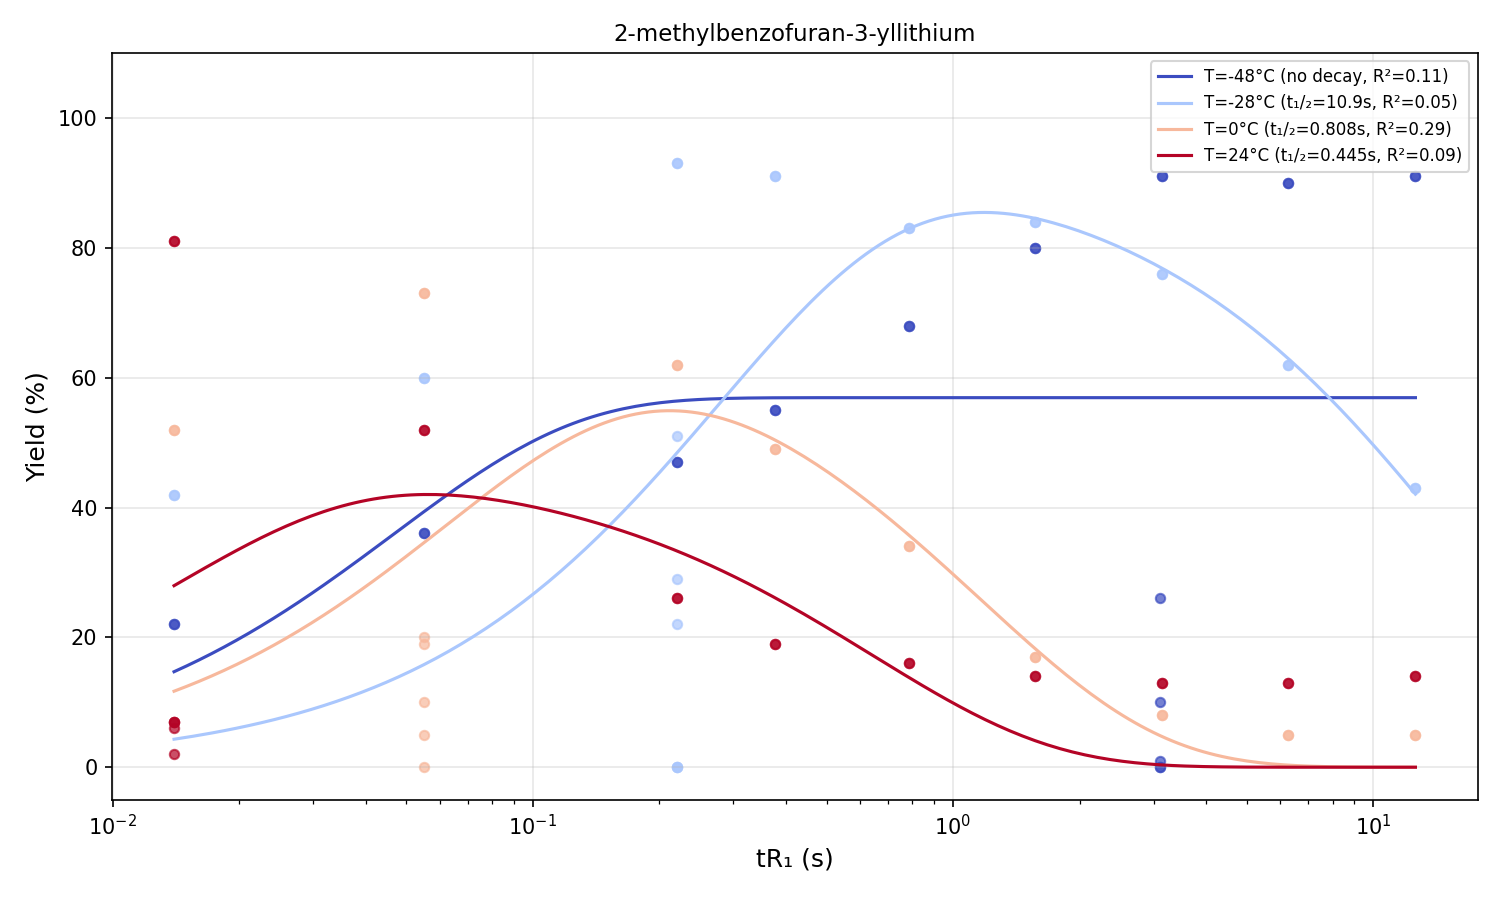
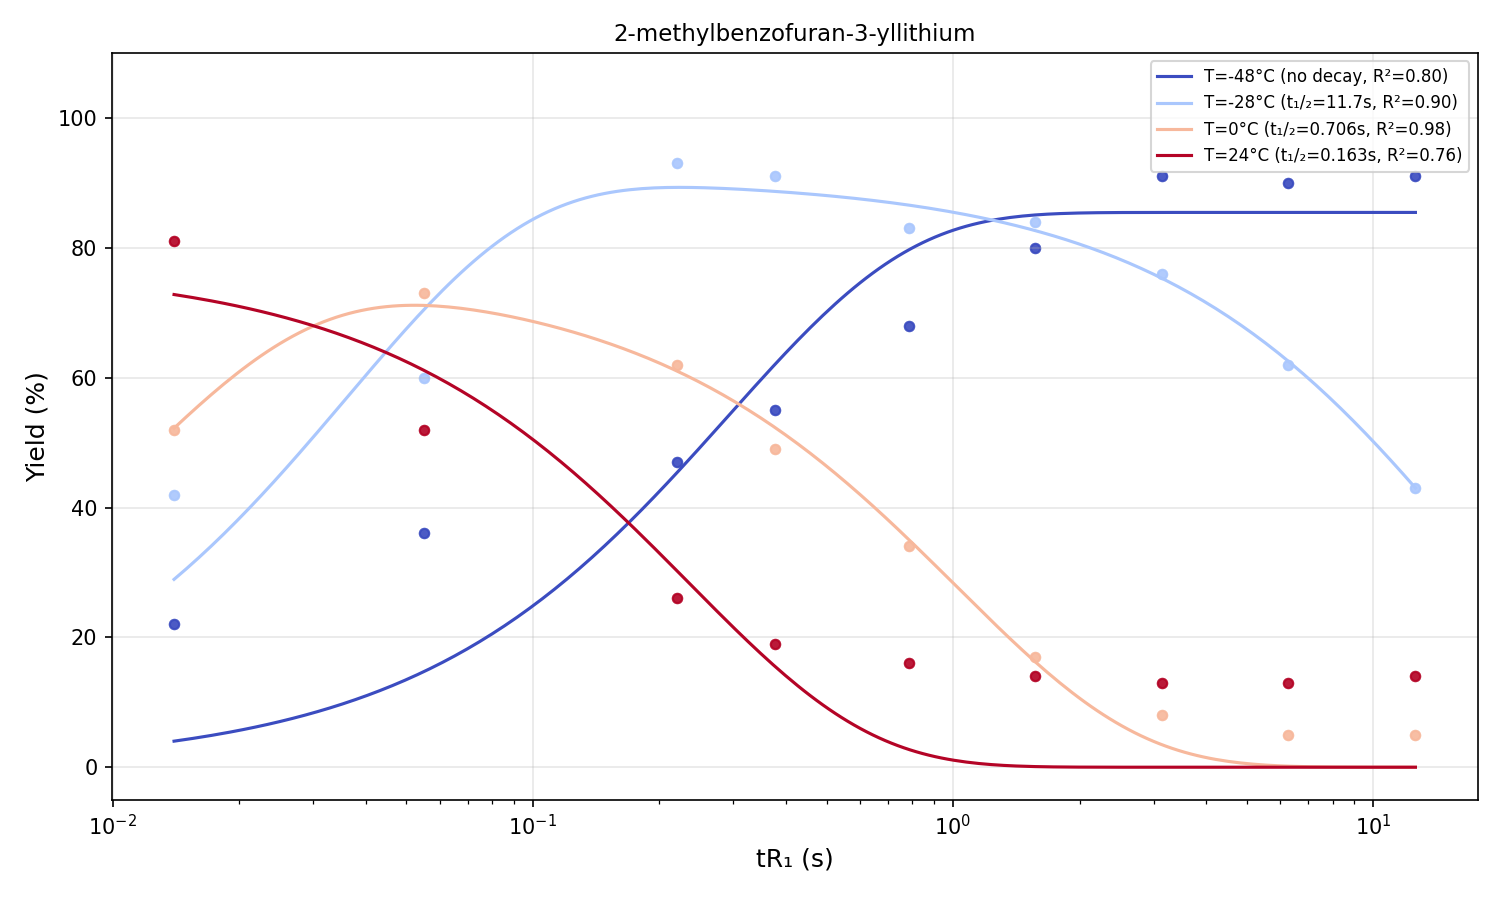
fix: methanol-priority electrophile selection + legacy marking + monotonicity filter
Three improvements to Arrhenius fitting pipeline:
1. When multiple electrophiles exist at same (compound, T), prefer
   methanol quench data (most reliable, 43% of kd_clean dataset)
2. Mark 4 compounds from old dataset (not in current raw CSV) as
   tier1_legacy / tier2_2pt_legacy for transparency
3. Filter non-monotonic t½ vs T points before Arrhenius fit
   (caused by unreliable fits at low-yield conditions)

Net: 41 Arrhenius entries (tier1=24, tier2=11, low_r2=2, legacy=4)
New: 1-triphenylsilyloxiranyllithium (tier2_2pt)
Pipeline audit confirms: scope classification correct, tR1/tR2 not mixed

diff --git a/scripts/ml_lifetime/phase_a_extract_halflife.py b/scripts/ml_lifetime/phase_a_extract_halflife.py
@@ -81,8 +81,19 @@ def load_tr1_data():
             groups[(smi, T_C)].append(point)
             elec_sub[(smi, T_C)][(electrophile, source)].append(point)
 
+    # When multiple electrophiles exist at the same (smi, T),
+    # prefer methanol quench data (most reliable, most common).
+    for (smi, T_C), sub_dict in elec_sub.items():
+        if len(sub_dict) <= 1:
+            continue
+        methanol_points = []
+        for (elec, src), pts in sub_dict.items():
+            if 'methanol' in elec.lower():
+                methanol_points.extend(pts)
+        if len(methanol_points) >= MIN_POINTS:
+            groups[(smi, T_C)] = methanol_points
+
     return groups, elec_sub
-    return groups
 
 
 # ── Kinetic models ──
